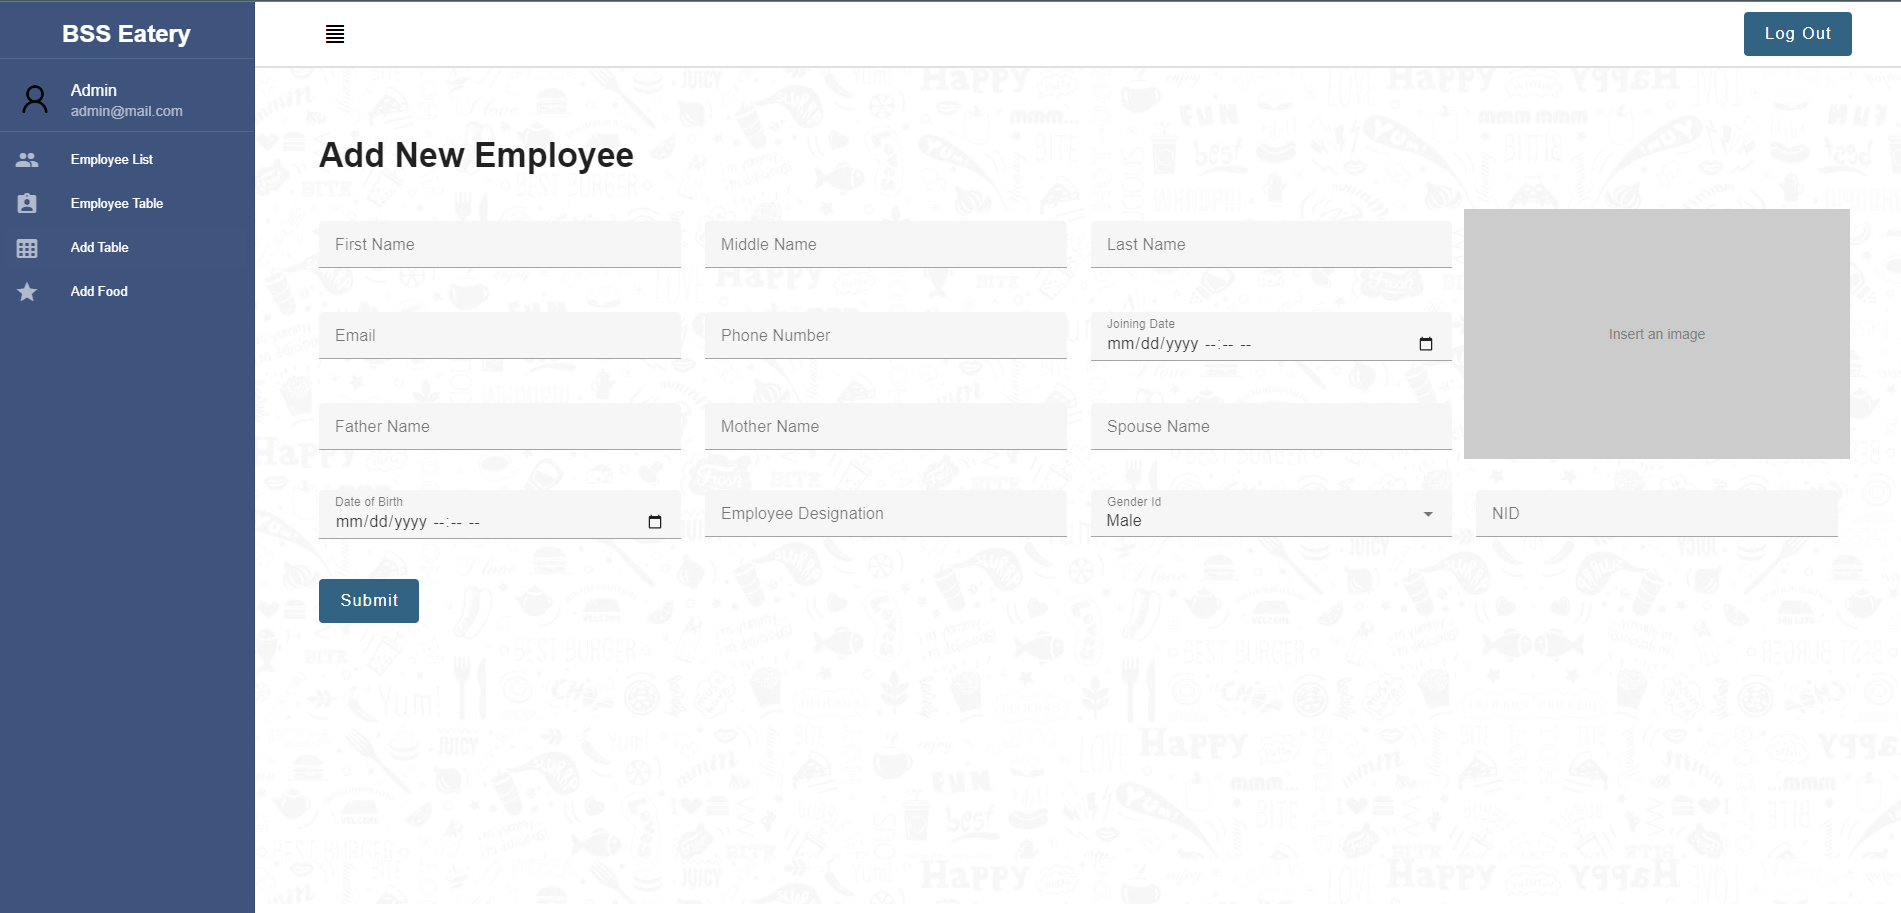
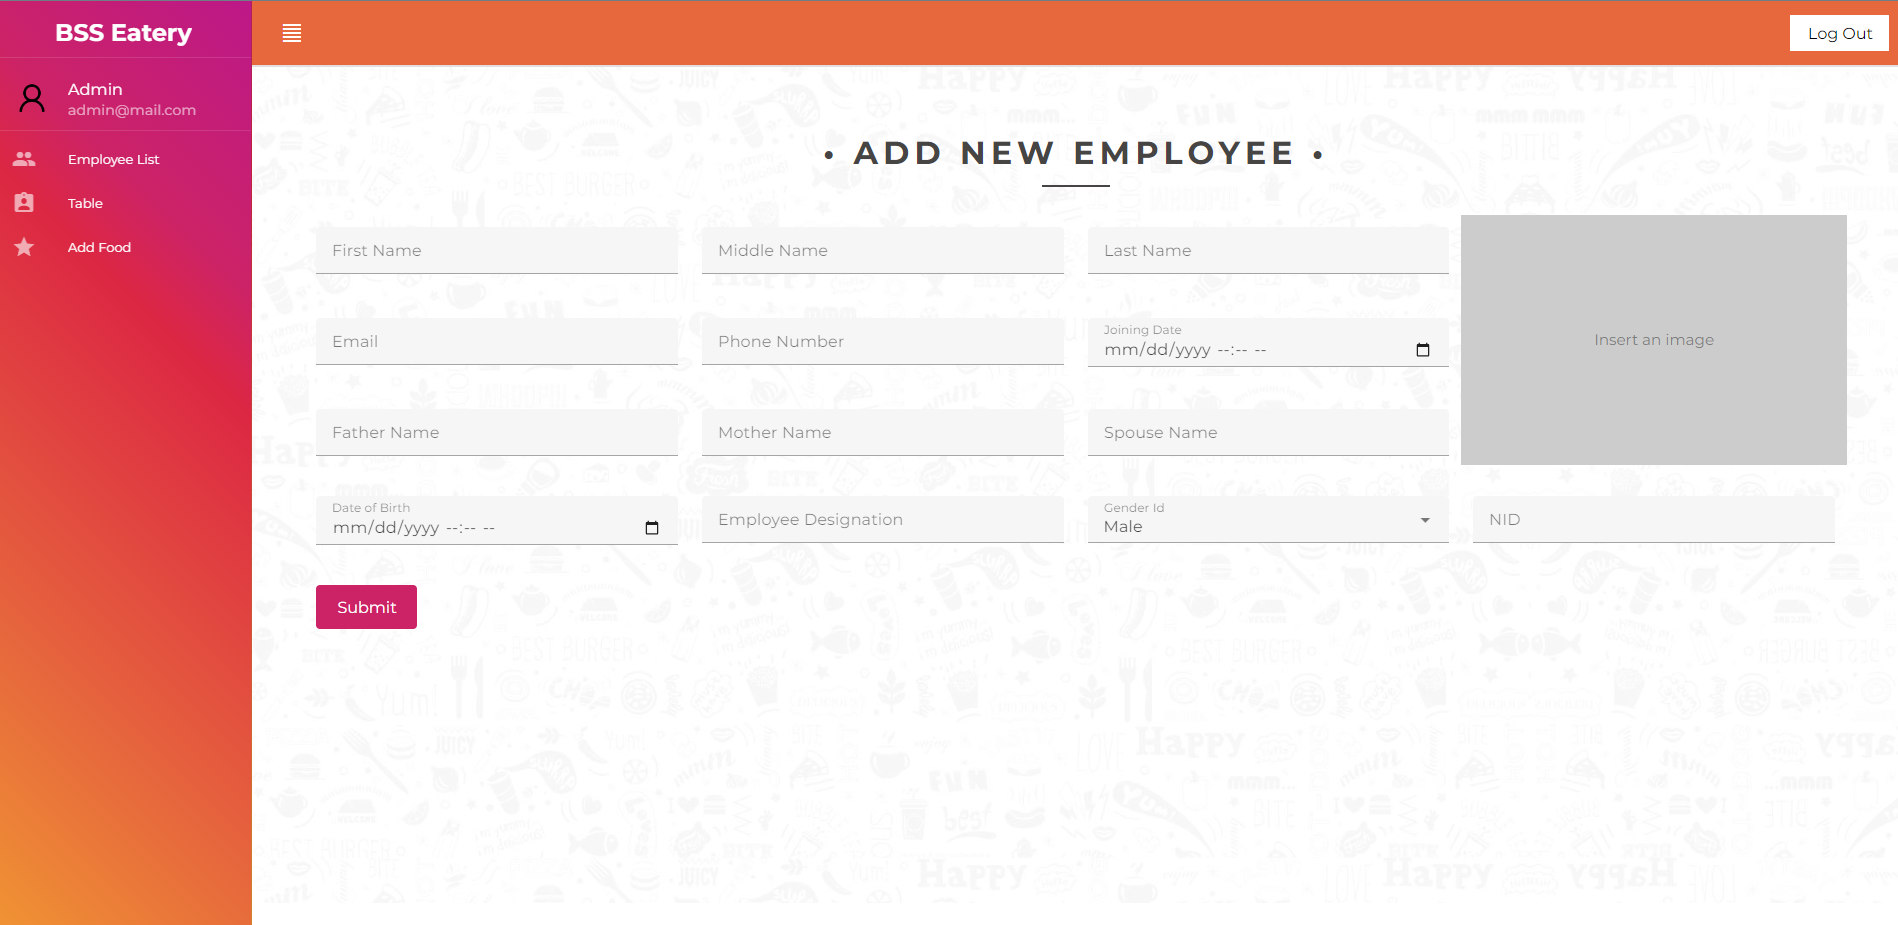
login page made responsive

diff --git a/src/Views/LogIn.vue b/src/Views/LogIn.vue
@@ -2,70 +2,74 @@
   <section class="login-section">
     <v-container class="login-container">
       <div class="img-container">
-        <img class="img" src="../assets/logo-images/login-pic.jpg" alt="" />
+        <img class="img" src="../assets/bg-image/login_img.jpg" alt="" />
       </div>
-      <v-card class="form-container mx-auto pa-9" elevation="12">
-        <h2 class="text-center mb-8">Have an account?</h2>
+      <v-card class="form-container" elevation="12">
+        <div class="form-inner">
+          <h2 class="text-center mb-8">Have an account?</h2>
 
-        <div class="spinner-container">
-          <Spinner v-if="showSpinner" class="spinner" />
+          <div class="spinner-container">
+            <Spinner v-if="showSpinner" class="spinner" />
+          </div>
+          <v-form @submit.prevent="submit" class="form">
+            <div class="d-flex text-subtitle-1 text-medium-emphasis mb-3">
+              <svg
+                xmlns="http://www.w3.org/2000/svg"
+                viewBox="0 0 20 20"
+                fill="currentColor"
+                class="svg-icon mr-2"
+              >
+                <path
+                  d="M10 8a3 3 0 100-6 3 3 0 000 6zM3.465 14.493a1.23 1.23 0 00.41 1.412A9.957 9.957 0 0010 18c2.31 0 4.438-.784 6.131-2.1.43-.333.604-.903.408-1.41a7.002 7.002 0 00-13.074.003z"
+                />
+              </svg>
+
+              <p class="d-block form-label">User Email</p>
+            </div>
+            <v-text-field
+              class="mb-1"
+              :rules="[rules.required, rules.email]"
+              v-model="userInfo.userName"
+              density="compact"
+              placeholder="Enter your Email"
+              variant="outlined"
+            ></v-text-field>
+            <div class="d-flex text-subtitle-1 text-medium-emphasis mb-3">
+              <svg
+                xmlns="http://www.w3.org/2000/svg"
+                viewBox="0 0 20 20"
+                fill="currentColor"
+                class="svg-icon mr-2"
+              >
+                <path
+                  fill-rule="evenodd"
+                  d="M10 1a4.5 4.5 0 00-4.5 4.5V9H5a2 2 0 00-2 2v6a2 2 0 002 2h10a2 2 0 002-2v-6a2 2 0 00-2-2h-.5V5.5A4.5 4.5 0 0010 1zm3 8V5.5a3 3 0 10-6 0V9h6z"
+                  clip-rule="evenodd"
+                />
+              </svg>
+
+              <p class="d-block form-label">Password</p>
+            </div>
+            <v-text-field
+              class="mb-3"
+              v-model="userInfo.password"
+              :append-inner-icon="
+                passwordIconVisible ? 'mdi-eye-off' : 'mdi-eye'
+              "
+              :type="passwordIconVisible ? 'text' : 'password'"
+              density="compact"
+              placeholder="Enter your password"
+              variant="outlined"
+              @click:append-inner="passwordIconVisible = !passwordIconVisible"
+            ></v-text-field>
+            <div class="btn-container">
+              <v-btn class="submit-btn text-white" type="submit">Submit</v-btn>
+            </div>
+            <p v-if="visible" class="text-red text-center mt-3">
+              {{ failedMessage }}
+            </p>
+          </v-form>
         </div>
-        <v-form @submit.prevent="submit">
-          <div class="d-flex text-subtitle-1 text-medium-emphasis mb-3">
-            <svg
-              xmlns="http://www.w3.org/2000/svg"
-              viewBox="0 0 20 20"
-              fill="currentColor"
-              class="svg-icon mr-2"
-            >
-              <path
-                d="M10 8a3 3 0 100-6 3 3 0 000 6zM3.465 14.493a1.23 1.23 0 00.41 1.412A9.957 9.957 0 0010 18c2.31 0 4.438-.784 6.131-2.1.43-.333.604-.903.408-1.41a7.002 7.002 0 00-13.074.003z"
-              />
-            </svg>
-
-            <p class="d-block form-label">User Email</p>
-          </div>
-          <v-text-field
-            class="mb-1"
-            :rules="[rules.required, rules.email]"
-            v-model="userInfo.userName"
-            density="compact"
-            placeholder="Enter your Email"
-            variant="outlined"
-          ></v-text-field>
-          <div class="d-flex text-subtitle-1 text-medium-emphasis mb-3">
-            <svg
-              xmlns="http://www.w3.org/2000/svg"
-              viewBox="0 0 20 20"
-              fill="currentColor"
-              class="svg-icon mr-2"
-            >
-              <path
-                fill-rule="evenodd"
-                d="M10 1a4.5 4.5 0 00-4.5 4.5V9H5a2 2 0 00-2 2v6a2 2 0 002 2h10a2 2 0 002-2v-6a2 2 0 00-2-2h-.5V5.5A4.5 4.5 0 0010 1zm3 8V5.5a3 3 0 10-6 0V9h6z"
-                clip-rule="evenodd"
-              />
-            </svg>
-
-            <p class="d-block form-label">Password</p>
-          </div>
-          <v-text-field
-            class="mb-3"
-            v-model="userInfo.password"
-            :append-inner-icon="passwordIconVisible ? 'mdi-eye-off' : 'mdi-eye'"
-            :type="passwordIconVisible ? 'text' : 'password'"
-            density="compact"
-            placeholder="Enter your password"
-            variant="outlined"
-            @click:append-inner="passwordIconVisible = !passwordIconVisible"
-          ></v-text-field>
-          <div class="btn-container">
-            <v-btn class="submit-btn text-white" type="submit">Submit</v-btn>
-          </div>
-          <p v-if="visible" class="text-red text-center mt-3">
-            {{ failedMessage }}
-          </p>
-        </v-form>
       </v-card>
     </v-container>
   </section>
@@ -133,47 +137,72 @@ export default {
 };
 </script>
 <style scoped>
+* {
+  font-size: clamp(12px, -0.875rem + 2.333vw, 16px);
+}
+h2 {
+  font-size: clamp(16px, -0.875rem + 2.333vw, 25px);
+}
 .login-section {
   min-height: 100vh;
   display: flex;
   justify-content: center;
   align-items: center;
-  background-color: #ccc;
+  background: linear-gradient(
+    45deg,
+    #f09433 0%,
+    #e6683c 25%,
+    #dc2743 65%,
+    #cc2366 75%,
+    #bc1888 100%
+  );
 }
 .login-container {
+  width: 100% !important;
   display: flex;
-  justify-content: flex-start;
+  justify-content: center;
+  flex-direction: column;
   align-items: center;
-  position: relative;
 }
 .img-container {
-  width: 70%;
-  animation: moveImg 5s infinite alternate;
-}
-@keyframes identifier {
-  10% {
-    margin-top: -20px;
-  }
-  100% {
-    margin-bottom: -20px;
-  }
-}
-.img {
-  filter: drop-shadow(0 0 0.75rem rgb(73, 56, 59));
-  width: 100%;
+  width: 95%;
 }
 .form-container {
-  position: absolute;
-  width: clamp(500.5px, -11.875rem + 17.333332999999996vw, 200px);
-  height: clamp(400px, -1.125rem + 15.333332999999996vw, 500px);
-  right: 100px;
-  top: 50%;
-  transform: translateY(-50%);
+  display: flex;
+  align-items: center;
+  justify-content: center;
+  width: 95%;
+  border-radius: 0;
+  /* margin-top: -10px; */
+  height: 390px;
 }
-@media only screen and (min-width: 768px) and (max-width: 1500px) {
-  .form-container {
-    right: 50px;
+
+@media screen and (min-width: 991px) {
+  .login-container {
+    flex-direction: row;
   }
+  .img-container {
+    width: 45%;
+    margin: auto 30px;
+  }
+  .form-container {
+    display: flex;
+    align-items: center;
+    justify-content: center;
+    width: 500px;
+    border-radius: 0;
+    margin-top: -10px;
+    height: 525px;
+  }
+}
+
+.img {
+  filter: drop-shadow(0 0 0.75rem rgb(54, 38, 41));
+  width: 100%;
+}
+
+.form-inner {
+  width: 80% !important;
 }
 .logo-container {
   display: flex;
@@ -181,7 +210,6 @@ export default {
   margin-bottom: 20px;
 }
 .login-logo {
-  /* background-color: #06d506; */
   border-radius: 50%;
   width: 80px;
 }
@@ -202,6 +230,7 @@ export default {
 .form-label {
   margin-bottom: -5px;
 }
+
 .btn-container {
   position: relative;
   display: flex;
@@ -210,6 +239,7 @@ export default {
 .submit-btn {
   width: 70%;
   font-weight: 600;
-  background-color: #ec462e;
+  background-color: #cc2366;
+  color: white;
 }
 </style>

diff --git a/src/components/layout/TopNav.vue b/src/components/layout/TopNav.vue
@@ -3,7 +3,11 @@
 
   <v-app-bar color="" prominent class="top-nav" elevation="0">
     <v-toolbar-title class="nav-header text-black">
-      <v-btn @click="toggleDashboard" icon="mdi-format-align-justify"></v-btn
+      <v-btn
+        @click="toggleDashboard"
+        icon="mdi-format-align-justify "
+        class="text-white"
+      ></v-btn
     ></v-toolbar-title>
     <v-btn class="login-btn" @click="onNavBtnClick">
       <v-icon icon="mdi-logout" class="d-flex d-md-none"></v-icon>
@@ -54,7 +58,16 @@ export default {
   width: 80%;
   margin: 0 auto;
   color: black;
-  background: #e6683c;
+  background-color: #e6683c;
+  /* background-image: linear-gradient(
+      to bottom,
+      rgba(106, 29, 3, 0.747) 0%,
+      rgba(75, 74, 74, 0.73) 50%
+    ),
+    url("../../assets/bg-image/bg_2.jpg");
+  background-position: center;
+  background-repeat: no-repeat;
+  background-size: cover; */
   /* background-color: #fdfdfa; */
   border-bottom: 2px solid #e3dfdf;
 }

diff --git a/src/Views/AddTable.vue b/src/Views/AddTable.vue
@@ -127,6 +127,7 @@ export default {
 }
 #container {
   border: solid 3px #8e0139;
+  background-color: #ffffffaa;
   max-width: 768px;
   padding: 10px;
   margin: auto;

diff --git a/README.md b/README.md
@@ -26,9 +26,16 @@ User Friendly online resturant management system with an admin role that allows 
 
 ## Screenshots
 
-     Add new Employee Page
+     All responsive forms
 
 ![App Screenshot](src/assets/projectImages/add-employee.png)
+![App Screenshot](src/assets/projectImages/add-employee_responsive.png)
+![App Screenshot](src/assets/projectImages/add-food.png)
+![App Screenshot](src/assets/projectImages/add-food_responsive.png)
+![App Screenshot](src/assets/projectImages/add-newTable.png)
+![App Screenshot](src/assets/projectImages/add-newTable_responsive.png)
+![App Screenshot](src/assets/projectImages/login.png)
+![App Screenshot](src/assets/projectImages/login_responsive.png)
 
 ## Login Information
 **email**: admin@mail.com
